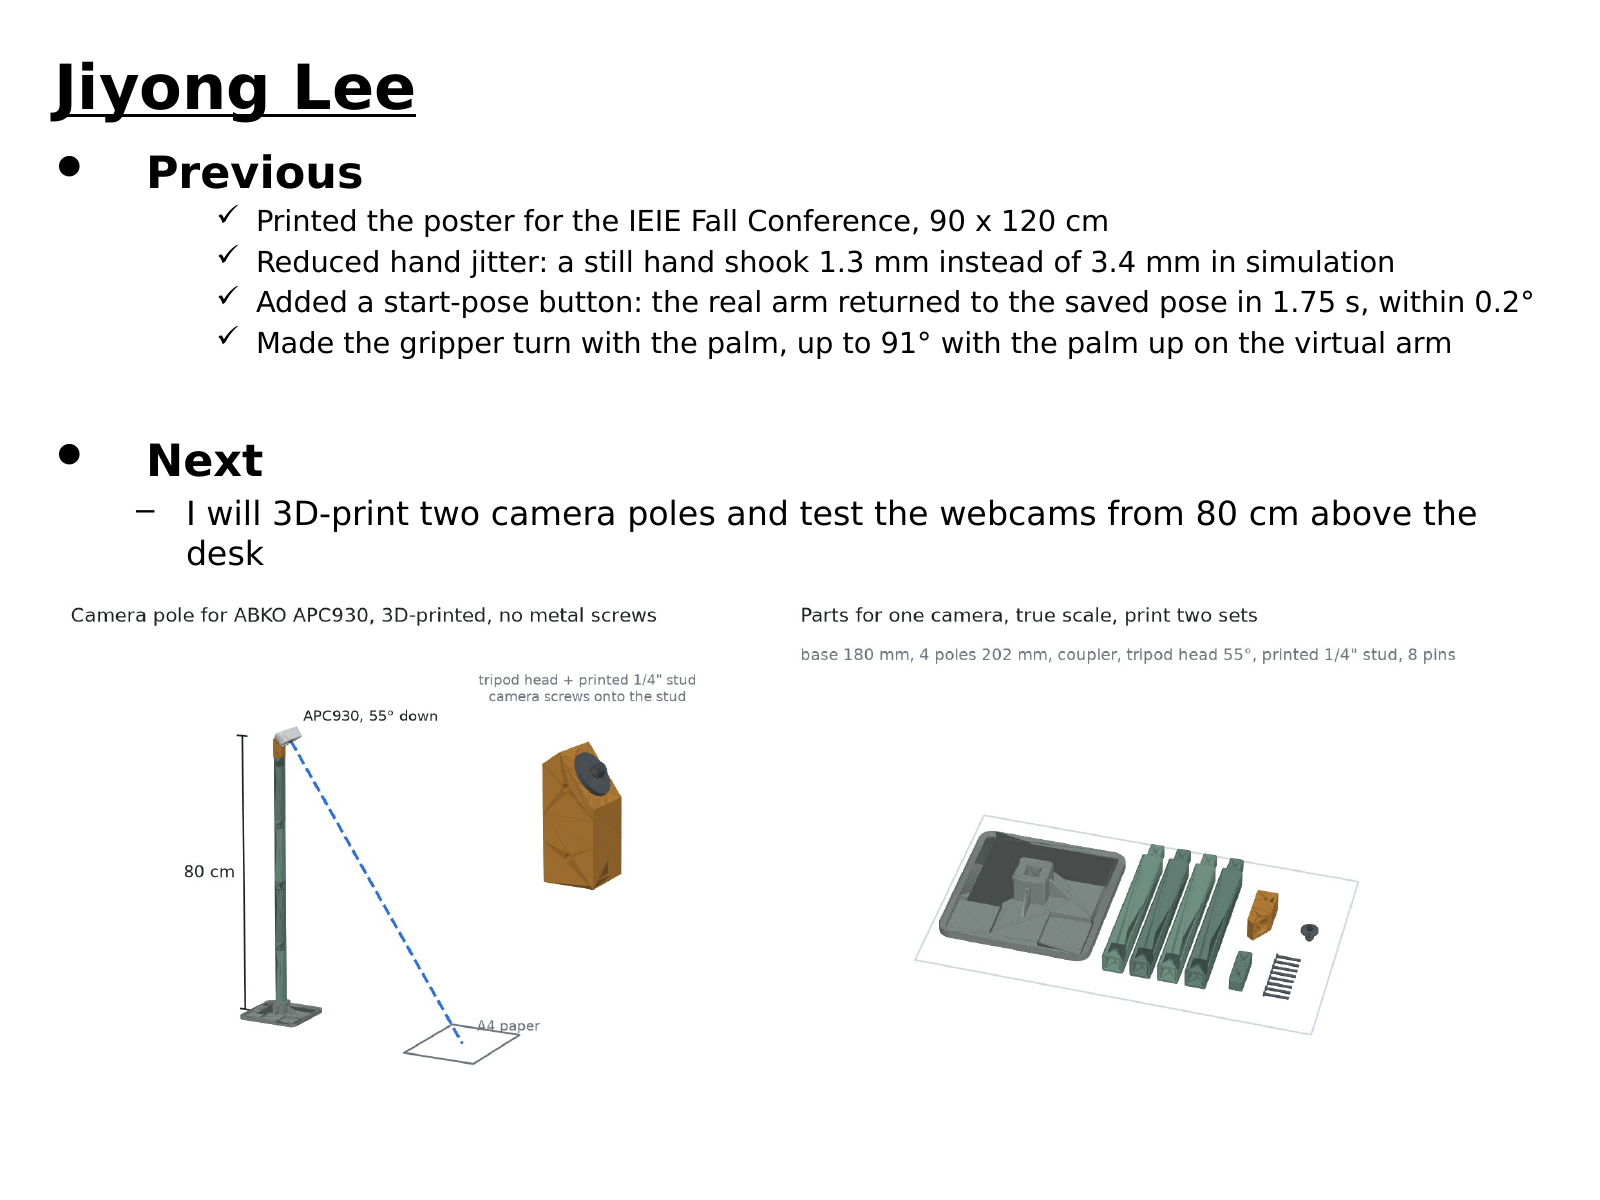
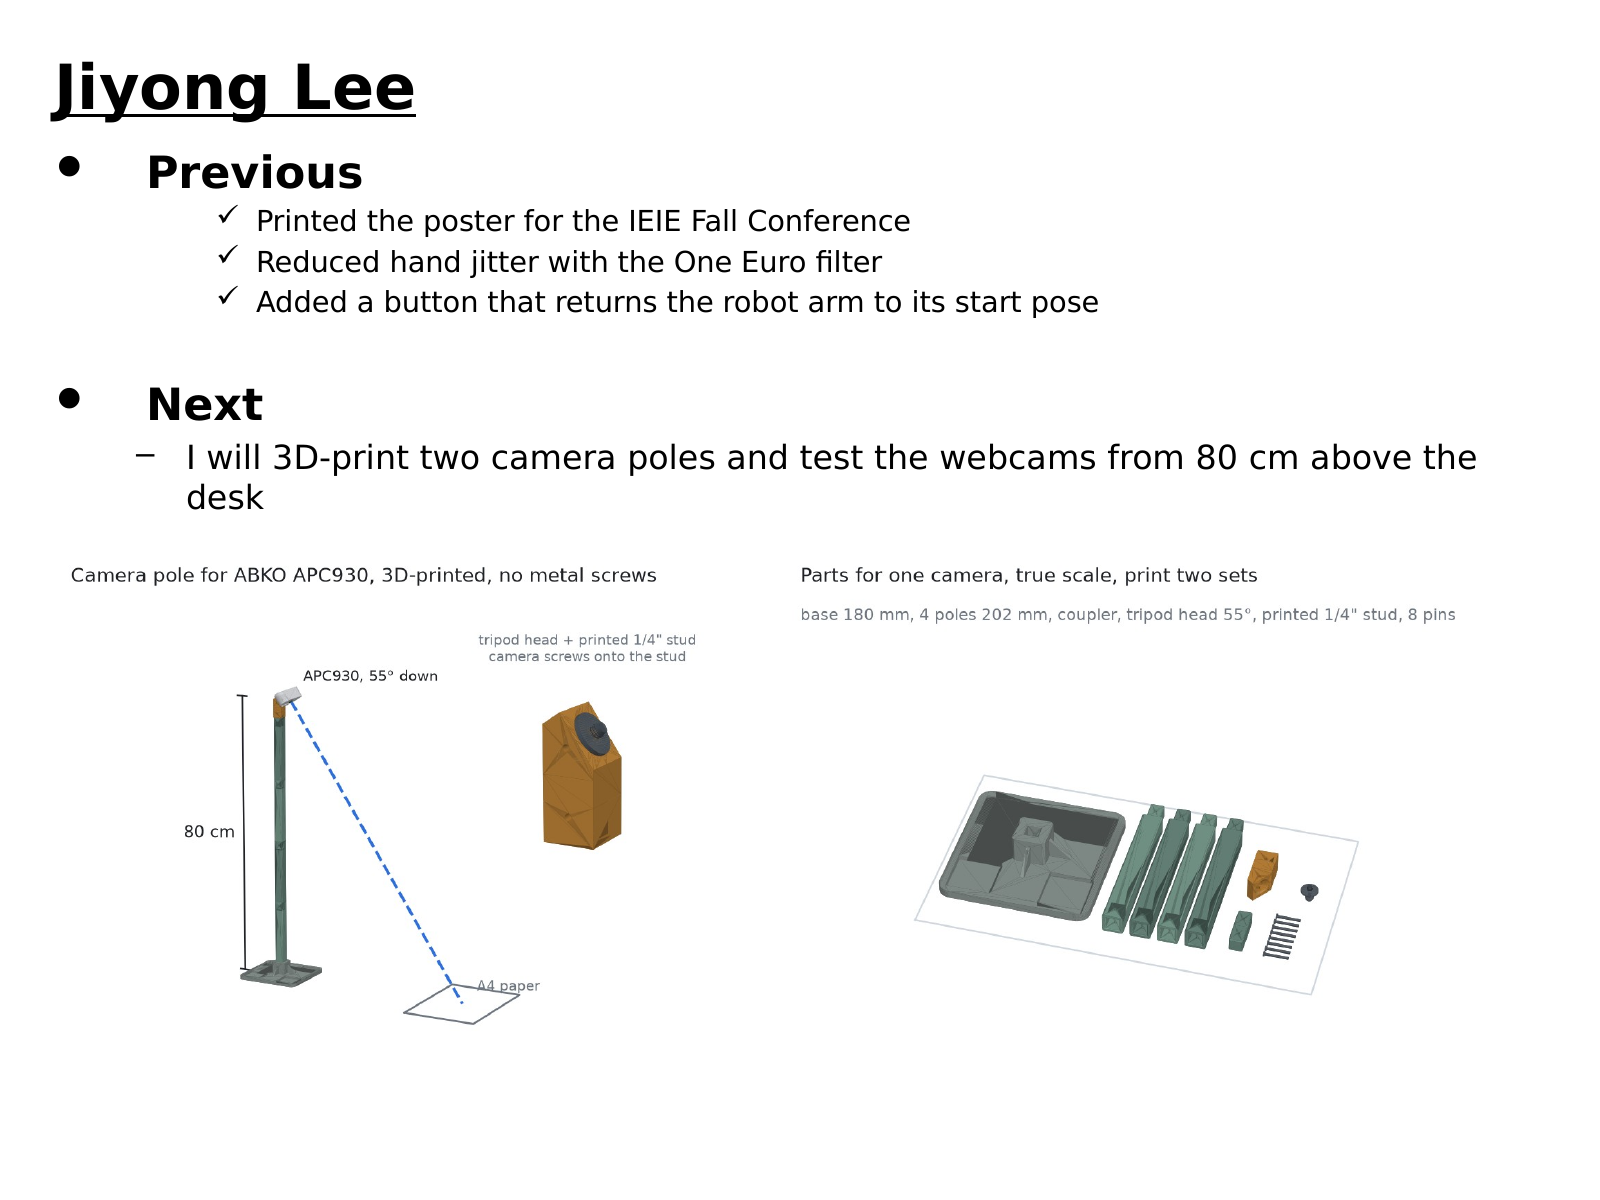
주간보고 11/27: Previous 를 짧게 (포스터 출력, 원유로 필터로 손 떨림 줄임, 로봇 팔 처음 자세 버튼), 손바닥 줄 뺌 (사용자 요청)

diff --git a/09_주간보고/2026-11-27/코드/make_weekly_1127.py b/09_주간보고/2026-11-27/코드/make_weekly_1127.py
@@ -15,11 +15,10 @@ SRC, OUT = Path(sys.argv[1]), HERE.parent / "주간보고_11_27_이지용.pptx"
 DATE, NAME = "2026. 11. 27", "Jiyong Lee"
 
 # Level 2 = the check-mark bullet of the lab template (as on 10-14 and 11-12), no detail lines (11-13: the hand-position line was removed on request)
-PREVIOUS = [
-    (2, "Printed the poster for the IEIE Fall Conference, 90 x 120 cm"),
-    (2, "Reduced hand jitter: a still hand shook 1.3 mm instead of 3.4 mm in simulation"),
-    (2, "Added a start-pose button: the real arm returned to the saved pose in 1.75 s, within 0.2°"),
-    (2, "Made the gripper turn with the palm, up to 91° with the palm up on the virtual arm"),
+PREVIOUS = [  # 11/25 user: keep it simple, drop the palm line
+    (2, "Printed the poster for the IEIE Fall Conference"),
+    (2, "Reduced hand jitter with the One Euro filter"),
+    (2, "Added a button that returns the robot arm to its start pose"),
 ]
 NEXT = [
     (1, "I will 3D-print two camera poles and test the webcams from 80 cm above the desk"),
@@ -72,10 +71,10 @@ _cSld.insert(0, etree.fromstring('<p:bg xmlns:p="http://schemas.openxmlformats.o
                                  '<a:srgbClr val="FFFFFF"/></a:solidFill><a:effectLst/></p:bgPr></p:bg>'))
 fill(nxt, "Next", NEXT)
 W = prs.slide_width
-prev.left, prev.top, prev.width, prev.height = Inches(0.25), Inches(0.85), W - Inches(0.45), Inches(1.75)
-nxt.left, nxt.top, nxt.width, nxt.height = Inches(0.25), Inches(2.65), W - Inches(0.45), Inches(0.95)
+prev.left, prev.top, prev.width, prev.height = Inches(0.25), Inches(0.85), W - Inches(0.45), Inches(1.4)
+nxt.left, nxt.top, nxt.width, nxt.height = Inches(0.25), Inches(2.3), W - Inches(0.45), Inches(0.95)
 # 11/25 user: the picture is a render of the camera pole STL made for the Next item
-pic = s2.shapes.add_picture(str(HERE.parent / "그림_카메라기둥.png"), 0, Inches(3.65), width=W - Inches(0.5))
+pic = s2.shapes.add_picture(str(HERE.parent / "그림_카메라기둥.png"), 0, Inches(3.4), width=W - Inches(0.5))
 pic.left = int((W - pic.width) / 2)
 # The removed reference picture and the fallback pictures of its text boxes stay in the file through the
 # slide's relationships; drop every picture the slide no longer shows

diff --git a/09_주간보고/README.md b/09_주간보고/README.md
@@ -6,7 +6,7 @@
 
 | 날짜 | 내용 | 슬라이드 | 대본 |
 |---|---|---|---|
-| [2026-11-27](#2026-11-27) | 추계학술대회 포스터 출력, 웹캠 PiPER 조종 개선 (손 떨림 거르기 가상 손 3.4 → 1.3 mm, 처음 자세 버튼 실물 1.75초·0.2° 안, 손바닥 방향 따라 집게 돌리기 가상 팔 91°까지). 다음은 카메라 기둥을 3D 프린트해 책상 위 80 cm 에서 웹캠 시험 | [pptx](2026-11-27/주간보고_11_27_이지용.pptx) | [약 50초 + 예상 질문 8개](2026-11-27/대본_11_27.md) |
+| [2026-11-27](#2026-11-27) | 추계학술대회 포스터 출력, 원유로(1€) 필터로 손 떨림 줄이기, 로봇 팔 처음 자세 버튼. 다음은 카메라 기둥을 3D 프린트해 책상 위 80 cm 에서 웹캠 시험 | [pptx](2026-11-27/주간보고_11_27_이지용.pptx) | [약 30초 + 예상 질문 8개](2026-11-27/대본_11_27.md) |
 | [2026-11-20](#2026-11-20) | [시연 영상](https://www.youtube.com/shorts/RBSCCwu8Yuc). 추계학술대회(대한전자공학회, 11/28 포스터 세션) 포스터 완성. 교수님이 주신 Point Policy 처럼 웹캠 두 대 손 키포인트(MediaPipe + 삼각측량)로 PiPER 조종을 만들고 실물 팔로 첫 시험(속도 30%). 다음은 실물 팔 지연·오차 재기와 손 시연 기록 | [pptx](2026-11-20/주간보고_11_20_이지용.pptx) | [약 40초 + 예상 질문 9개](2026-11-20/대본_11_20.md) |
 | [2026-11-13](#2026-11-13) | 실물 PiPER 첫 시험 조종 (CAN 연결, 관절 6개), 찬혁님 부탁 카메라 마운트 부품 5개 3D 프린트, 11/14 SQLD 시험 준비. 다음은 PiPER 에 카메라를 연결해 데이터 수집을 하나씩 해 보기 | [pptx](2026-11-13/주간보고_11_13_이지용.pptx) | [약 30초 + 예상 질문 5개](2026-11-13/대본_11_13.md) |
 | [2026-11-12](#2026-11-12) | 실물 PiPER 준비: PiPER SDK 설치법 조사·설명서, U20CAM 손목 카메라 3D 프린트 마운트 설계, 11/12 SQLD 공부. 다음은 찬혁님과 PiPER 사용법 배우기 | [pptx](2026-11-12/주간보고_11_12_이지용.pptx) | [약 30초 + 예상 질문 6개](2026-11-12/대본_11_12.md) |
@@ -29,9 +29,9 @@
 <img src="2026-11-27/슬라이드_2_내용.png" width="70%">
 
 - Previous: 대한전자공학회 추계학술대회 포스터 출력 (90 × 120 cm, 11/28 포스터 세션)
-- Previous: 손 떨림 거르기 (가운데 값 + 1€ + 멈춤 구역). 멈춘 손 흔들림 3.4 → 1.3 mm 는 가상 손 결과, 진짜 손은 아직 측정해 보지 않았다 ([webcam_piper README](../11_실물_PiPER/webcam_piper/README.md) 11/20)
-- Previous: 처음 자세 버튼 B, 11/20 실물에서 1.75초 만에 관절 차 0.2° 안 ([일지 11/20](../03_일지/2026-11-20.md)). 11/23 낮게 저장한 자세로 책상에 닿은 일과 고친 것은 대본 예상 질문 7
-- Previous: 손바닥 방향 따라 집게 돌리기, 가상 팔에서 옆 56°·위 63°, 손을 20 cm 들면 91° ([일지 11/23](../03_일지/2026-11-23.md))
+- Previous: 원유로(1€) 필터로 손 떨림 줄이기. 11/20 에 1€ 필터 앞에 가운데 값, 뒤에 멈춤 구역을 더해 가상 손에서 멈춘 손 흔들림 3.4 → 1.3 mm, 진짜 손은 아직 측정해 보지 않았다 ([webcam_piper README](../11_실물_PiPER/webcam_piper/README.md) 11/20)
+- Previous: 로봇 팔 처음 자세 버튼 B, 11/20 실물에서 1.75초 만에 관절 차 0.2° 안 ([일지 11/20](../03_일지/2026-11-20.md)). 11/23 낮게 저장한 자세로 책상에 닿은 일과 고친 것은 대본 예상 질문 7
+- 사용자 요청으로 Previous 는 짧게 쓰고 숫자와 괄호를 뺐다. 손바닥 방향 따라 집게 돌리기 줄도 뺐다 ([일지 11/23](../03_일지/2026-11-23.md) 에는 있음)
 - Next: 카메라 기둥 두 개를 3D 프린트해 책상 위 80 cm 에서 웹캠 시험
 - 그림: 사용자 요청으로 이번 주에 만든 기둥 STL 렌더링 ([stand_high](../11_실물_PiPER/webcam_piper/stand_high/README.md), `render.py`). 11/25 연구실 웹캠 APC930 에 맞춤: 55° 삼각대 머리 + 출력한 1/4인치 나사 기둥 (기본), 집게 머리 (톱니 80 mm). 제조사 자료에 치수가 없어 삼각대 구멍·집게 크기는 재 보지 않았고, 아직 출력하지 않았다
 - 날짜는 금요일로 어림해 11/27. 슬라이드는 `코드/make_weekly_1127.py`

diff --git a/09_주간보고/2026-11-27/대본_11_27.md b/09_주간보고/2026-11-27/대본_11_27.md
@@ -1,7 +1,7 @@
 # 주간보고 대본: 2026-11-27 (이지용)
 
 - 슬라이드: [주간보고_11_27_이지용.pptx](주간보고_11_27_이지용.pptx)
-- 말하는 시간: 약 50초 (짧은 문장 9개)
+- 말하는 시간: 약 30초 (짧은 문장 6개)
 - 읽는 법: 영어 문장 아래에 한글 해석을 달았습니다.
 - 날짜는 금요일(11/27)로 잡았습니다. 랩미팅 날이 다르면 `코드/make_weekly_1127.py` 의 DATE 만 바꾸면 됩니다.
 - 그림: 이번 주에 만든 카메라 기둥 STL 을 렌더링한 것입니다 (사용자 요청). 연구실 웹캠 ABKO APC930 에 맞췄습니다 (11/25). 왼쪽은 조립한 모습(카메라가 책상 위 80 cm 에서 55° 아래를 봄)과 꼭대기 확대(55° 삼각대 머리 + 출력한 1/4인치 나사 기둥), 오른쪽은 카메라 하나 몫의 출력 부품을 실제 크기 비율로 늘어놓은 것입니다. 카메라 모양은 제조사 그림을 보고 대강 그렸습니다. STL 과 설명서는 [11_실물_PiPER/webcam_piper/stand_high](../../11_실물_PiPER/webcam_piper/stand_high/README.md) 에 있습니다. 아직 출력하지 않았습니다.
@@ -18,21 +18,13 @@
 
 이번 주에 대한전자공학회 추계학술대회 포스터를 출력했습니다.
 
-> I also improved the webcam teleoperation of the PiPER.
+> I also reduced hand jitter with the One Euro filter.
 
-또 웹캠으로 PiPER 를 조종하는 프로그램을 개선했습니다.
+또 원유로(1€) 필터로 손 떨림을 줄였습니다.
 
-> First, I reduced hand jitter. With a simulated hand, a still hand now shakes 1.3 millimeters instead of 3.4.
+> And I added a button that returns the robot arm to its start pose.
 
-첫째, 손 떨림을 줄였습니다. 가상 손으로 시험했을 때, 멈춰 있는 손의 흔들림이 3.4 mm 에서 1.3 mm 로 줄었습니다.
-
-> Second, I added a start-pose button. On the real arm, it went back to the saved pose in 1.75 seconds.
-
-둘째, 처음 자세 버튼을 만들었습니다. 실제 팔에서 1.75초 만에 저장한 자세로 돌아갔습니다.
-
-> Third, the gripper now turns with my palm. On the virtual arm, it turns up to 91 degrees when my palm faces up.
-
-셋째, 이제 그리퍼가 손바닥 방향을 따라 돕니다. 가상 팔에서 손바닥을 위로 향하면 91도까지 돕니다.
+그리고 로봇 팔이 처음 자세로 돌아가는 버튼을 만들었습니다.
 
 ## Next
 
